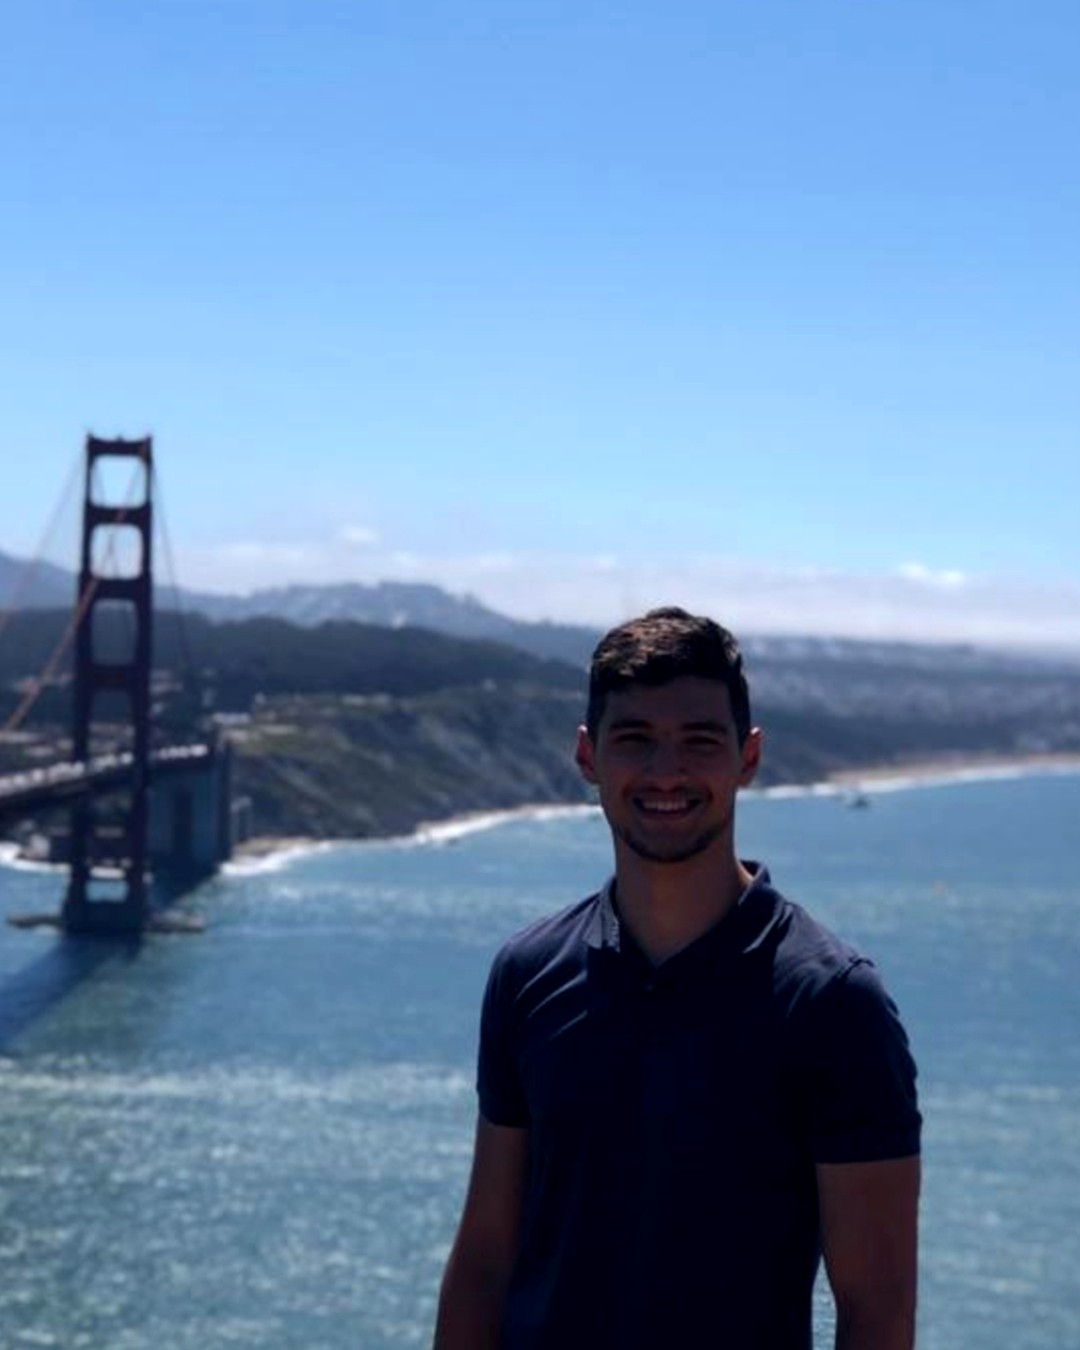
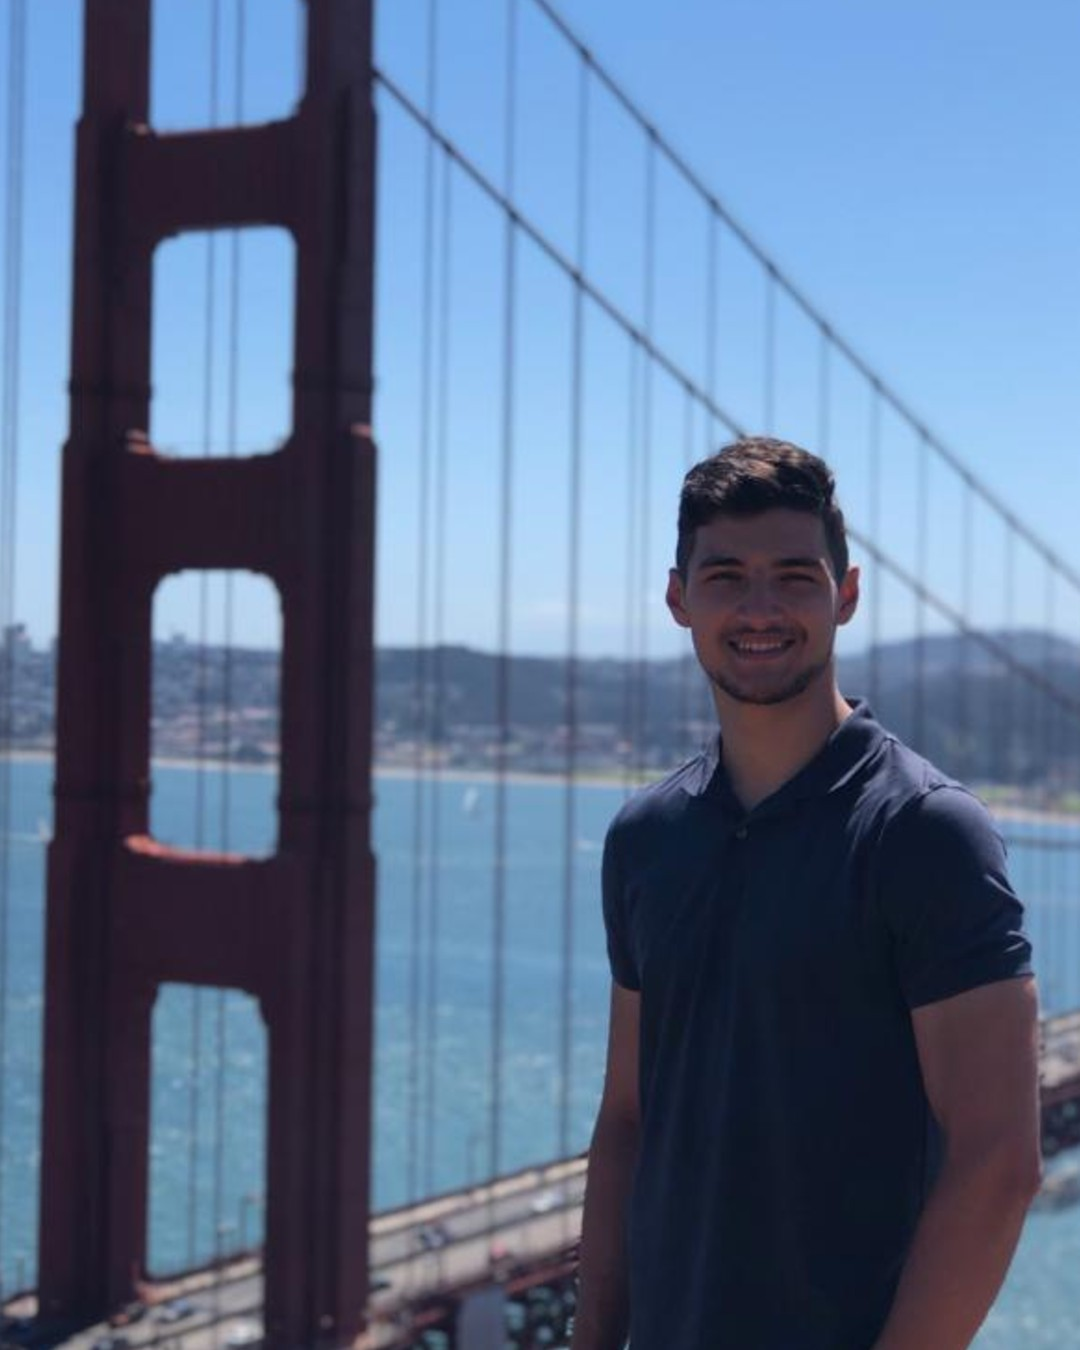
added carousel album

diff --git a/app.js b/app.js
@@ -1,3 +1,5 @@
+// ---------------------------------- NAVIGATION
+
 const mobileNav = document.querySelector(".mobile-nav");
 const navMenuBars = mobileNav.querySelector(".nav-menu__bars");
 const navMenuBar = navMenuBars.querySelectorAll(".nav-menu__bar");
@@ -5,13 +7,12 @@ const navMenuOpen = mobileNav.querySelector(".nav-menu__open");
 const navMenuLinks = navMenuOpen.querySelectorAll("a");
 const backdrop = document.querySelector(".backdrop");
 
-// ---------------------------------- NAVIGATION
-
 // Make the navigation menu open when we click on it
 
 let mobileNavIsOpen = false;
 
-const displayFlex = "display: -webkit-box; display: -webkit-flex; display: -ms-flexbox; display: flex;"
+const displayFlex =
+  "display: -webkit-box; display: -webkit-flex; display: -ms-flexbox; display: flex;";
 
 navMenuBars.addEventListener("click", function () {
   if (!mobileNavIsOpen) {
@@ -26,17 +27,46 @@ navMenuBars.addEventListener("click", function () {
 });
 
 function closeMobileMenu() {
-    backdrop.classList.remove("backdrop-active");
-    backdrop.classList.add("backdrop-inactive");
-    mobileNav.classList.remove("nav-open");
-    mobileNav.classList.add("nav-close");
-    navMenuOpen.style.display = "none";
-    navMenuBars.style = displayFlex;
-    mobileNavIsOpen = false;
+  backdrop.classList.remove("backdrop-active");
+  backdrop.classList.add("backdrop-inactive");
+  mobileNav.classList.remove("nav-open");
+  mobileNav.classList.add("nav-close");
+  navMenuOpen.style.display = "none";
+  navMenuBars.style = displayFlex;
+  mobileNavIsOpen = false;
 }
 
-for (i = 0; i < navMenuLinks.length; i++) {
+for (let i = 0; i < navMenuLinks.length; i++) {
   navMenuLinks[i].addEventListener("click", closeMobileMenu);
 }
 
-backdrop.addEventListener("click", closeMobileMenu)
+backdrop.addEventListener("click", closeMobileMenu);
+
+// ---------------------------------- ABOUT
+
+const aboutImg = document.querySelector("#about img");
+
+// Make the picture change in loop
+
+const pictures = [
+  "LA",
+  "GrandCanyon",
+  "SanFrancisco",
+  "Sequoia",
+  "Philadelphia",
+  "NewYork",
+];
+
+function changeImage(img) {
+  aboutImg.src = `./pictures/${img}.jpg`;
+}
+
+function changeImageLoop() {
+  for (let i = 0; i < pictures.length; i++) {
+    setTimeout(changeImage.bind(pictures[i]), i * 3000, pictures[i]);
+  }
+}
+
+changeImageLoop();
+
+setInterval(changeImageLoop, 18000);

diff --git a/main.scss b/main.scss
@@ -120,12 +120,13 @@ body {
     justify-content: space-around;
     align-items: center;
     width: 100%;
-    height: 100%;
+    height: 80%;
   
     a {
       color: $lighter-color;
       text-decoration: none;
       font-weight: bold;
+      font-size: clamp(0.8rem, 5vw, 1.2rem);
     }
   }
 }
@@ -156,6 +157,7 @@ body {
   
   .main-image {
     width: $mobile-img__diameter;
+    height: $mobile-img__diameter;
     border-radius: 50%;
     margin: 4rem auto 0 auto;
     overflow: hidden;
@@ -163,6 +165,7 @@ body {
     img {
       width: 100%;
       box-shadow: 0 2px 8px$darker-color;
+      transform: translateY(-1.2rem);
     }
   }
 }

diff --git a/main.css b/main.css
@@ -90,12 +90,13 @@ body {
   justify-content: space-around;
   align-items: center;
   width: 100%;
-  height: 100%;
+  height: 80%;
 }
 .mobile-nav .nav-menu__open a {
   color: #dfedf2;
   text-decoration: none;
   font-weight: bold;
+  font-size: clamp(0.8rem, 5vw, 1.2rem);
 }
 
 .desktop-nav {
@@ -118,6 +119,7 @@ body {
 }
 #home .main-image {
   width: clamp(5rem, 60vw, 20rem);
+  height: clamp(5rem, 60vw, 20rem);
   border-radius: 50%;
   margin: 4rem auto 0 auto;
   overflow: hidden;
@@ -125,6 +127,7 @@ body {
 #home .main-image img {
   width: 100%;
   box-shadow: 0 2px 8px #011526;
+  transform: translateY(-1.2rem);
 }
 
 section h2 {
